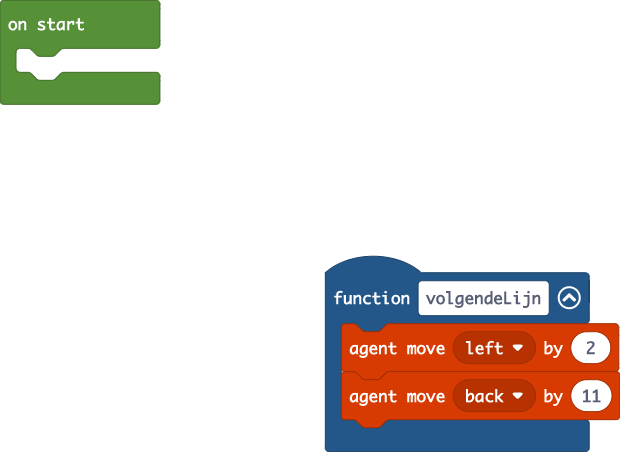
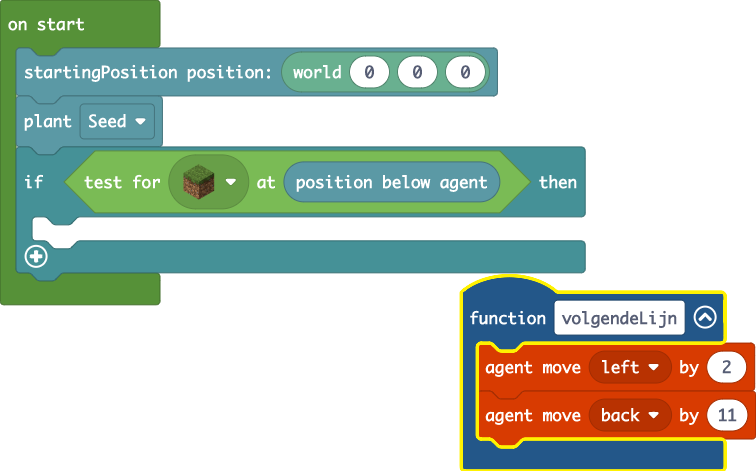
Update main.blocks, main.ts, t_level1-3.md

diff --git a/t_level1-3.md b/t_level1-3.md
@@ -1,9 +1,25 @@
-# Missie 6 (v1.1)
-##level
-
+### @hideIteration true
+### @flyoutOnly true
+# Missie 4 (v1.0)
+```blocks
+player.onChat("run", function () {
+    for (let index = 0; index < 4; index++) {
+        agent.move(FORWARD, 1)
+        agent.turn(LEFT_TURN)
+    }
+CodeCosmos.startingPosition(world(0, 0, 0))
+CodeCosmos.place(Seeds.Seed)
+if (blocks.testForBlock(GRASS, CodeCosmos.positionBelowAgent())) {}
+})
+```
 ```template
+player.onChat("level1", function () {
+
+})
 function volgendeLijn () {
     agent.move(LEFT, 2)
     agent.move(BACK, 11)
 }
 ```
+## Velden beplanten
+Volg de instructies op het leerplatform om de opdracht op te lossen.
